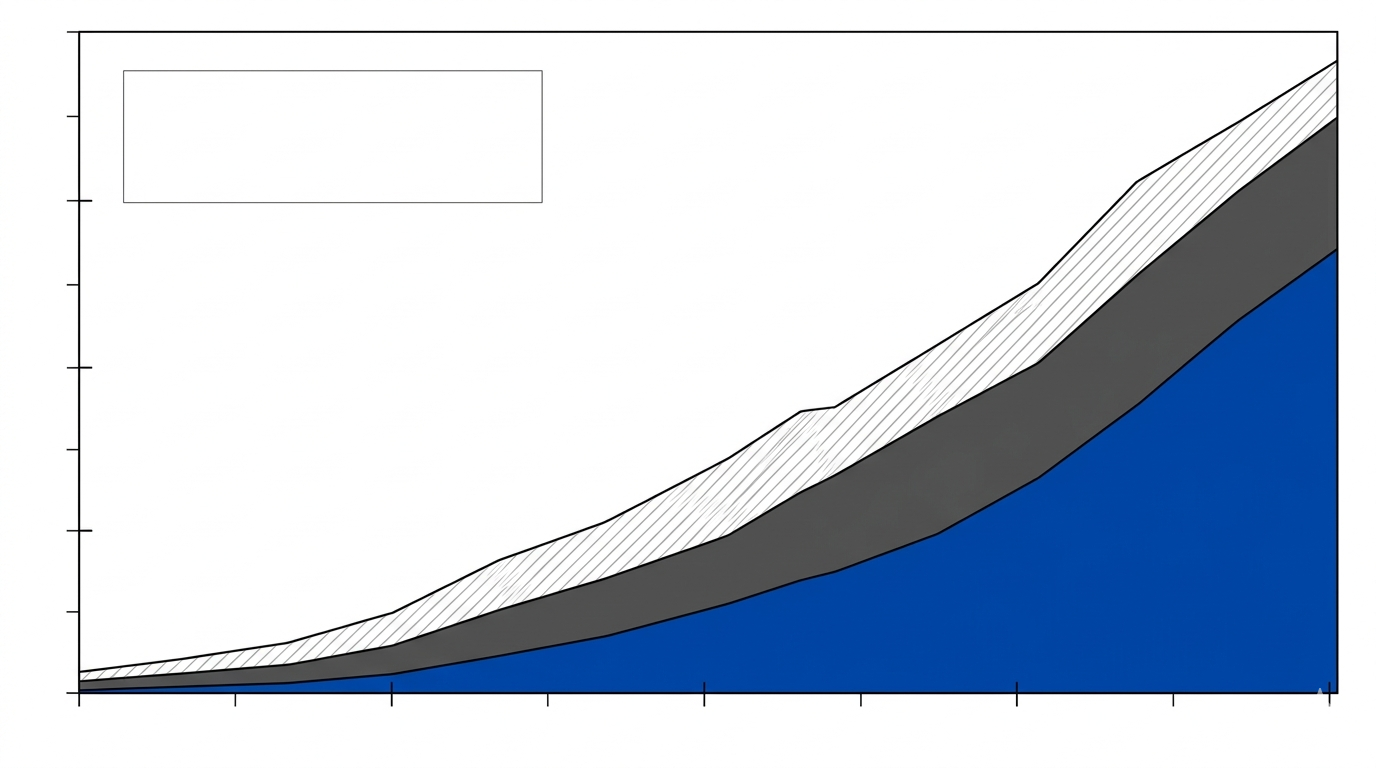
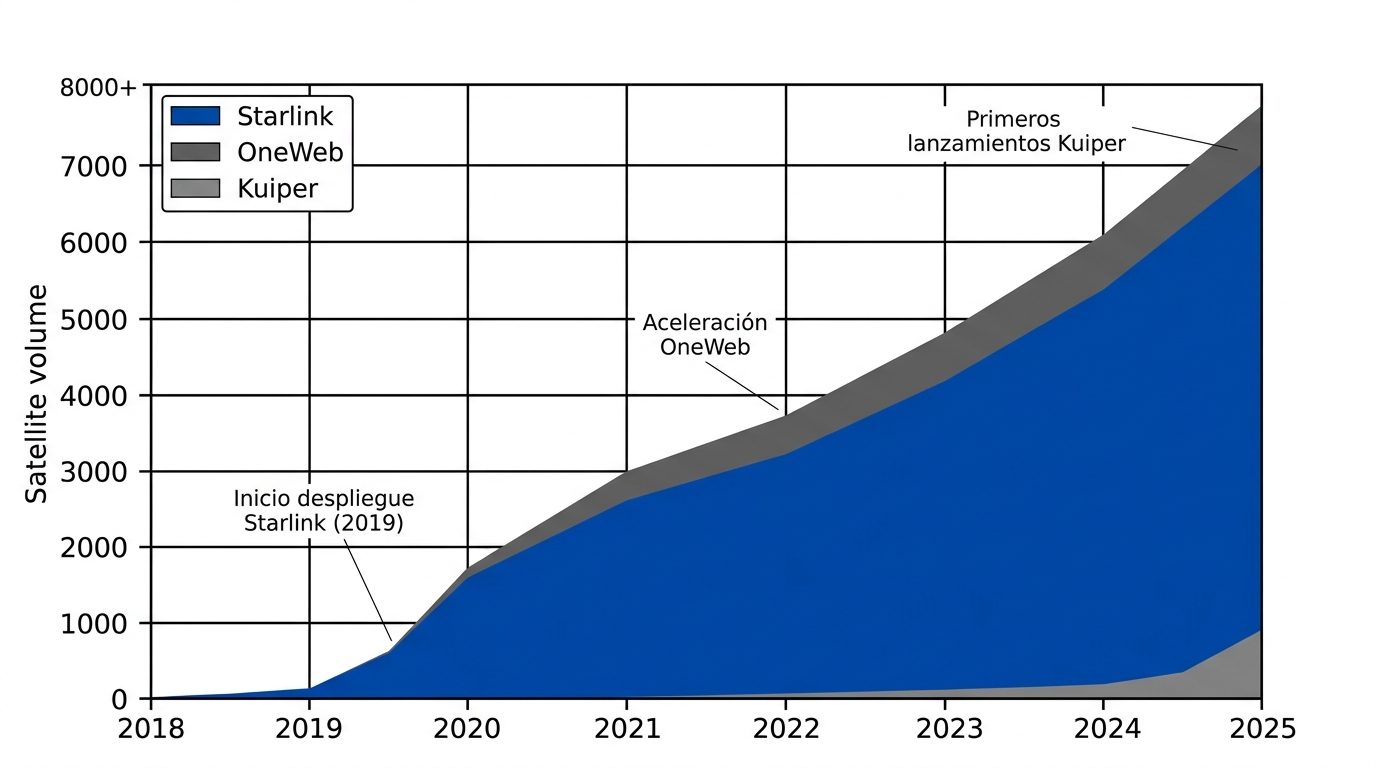
feat: Incorporando activos graficos en fase 2 - 1

Changed region(s): [[0.0, 0.0938, 1.0, 0.9688], [0.0625, 0.0312, 0.9688, 0.0625], [0.3125, 0.25, 0.3438, 0.2812]]

diff --git a/codes/fig1.tex b/codes/fig1.tex
@@ -1,0 +1,141 @@
+\begin{tikzpicture}
+
+% === PARÁMETROS ===
+% Colores
+\definecolor{colorStarlink}{HTML}{0047AB}
+\definecolor{colorOneWeb}{HTML}{555555}
+\definecolor{colorKuiper}{HTML}{888888}
+\definecolor{colorGrid}{HTML}{000000}
+\definecolor{colorBg}{HTML}{FFFFFF}
+
+% Dimensiones de la figura (Proporción 11 x 6.5 del figsize)
+\def\figWidth{16.5cm}
+\def\figHeight{9.75cm}
+
+% Ejes y límites
+\def\xmin{2018}
+\def\xmax{2025}
+\def\ymin{0}
+\def\ymax{8000}
+
+% Grosores de línea
+\def\gridLineWidth{1.2pt}
+\def\spineLineWidth{1.5pt}
+\def\annoLineWidth{0.8pt}
+
+% Coordenadas de anotación 1 (Starlink)
+\def\annoOneXText{2019.2}
+\def\annoOneYText{2600}
+\def\annoOneXTarget{2019.6}
+\def\annoOneYTarget{600}
+
+% Coordenadas de anotación 2 (OneWeb)
+\def\annoTwoXText{2021.55}
+\def\annoTwoYText{4850}
+\def\annoTwoXTarget{2022.0}
+\def\annoTwoYTarget{3800}
+
+% Coordenadas de anotación 3 (Kuiper)
+% ASUNCIÓN: La flecha 3 se fuerza a apuntar a la capa gris oscura para ser fiel a la imagen generada (alucinación visual), 
+% aunque lógicamente Kuiper sea la capa gris clara inferior.
+\def\annoThreeXText{2023.6}
+\def\annoThreeYText{7500}
+\def\annoThreeXTarget{2024.8}
+\def\annoThreeYTarget{7200}
+
+% Estilos TikZ
+\tikzset{
+    annotation node/.style={
+        align=center,
+        font=\small\sffamily,
+        inner sep=3pt
+    },
+    annotation link/.style={
+        draw=black,
+        line width=\annoLineWidth,
+        solid
+    }
+}
+
+% === ESTRUCTURA PRINCIPAL ===
+\begin{axis}[
+    width=\figWidth,
+    height=\figHeight,
+    axis background/.style={fill=colorBg},
+    xmin=\xmin, xmax=\xmax,
+    ymin=\ymin, ymax=\ymax,
+    xtick={2018,2019,2020,2021,2022,2023,2024,2025},
+    ytick={0,1000,2000,3000,4000,5000,6000,7000,8000},
+    yticklabels={0, 1000, 2000, 3000, 4000, 5000, 6000, 7000, 8000+},
+    ylabel={Satellite volume},
+    ylabel style={font=\large\sffamily},
+    tick label style={font=\normalsize\sffamily},
+    % Estilo del recuadro
+    axis line style={line width=\spineLineWidth, color=black},
+    tick style={line width=\spineLineWidth, color=black},
+    major tick length=6pt,
+    % Grilla configurada para verse por encima de las capas
+    xmajorgrids=true,
+    ymajorgrids=true,
+    grid style={color=colorGrid, line width=\gridLineWidth, solid},
+    axis on top=true, % Equivalente a set_axisbelow(False)
+    % Configuración del apilamiento
+    stack plots=y,
+    area style,
+    enlarge x limits=false,
+    % Configuración de leyenda
+    legend style={
+        at={(0.02, 0.98)},
+        anchor=north west,
+        font=\normalsize\sffamily,
+        draw=black,
+        line width=0.8pt,
+        cells={anchor=west},
+        fill=white,
+        fill opacity=1,
+        text opacity=1,
+        outer sep=0pt
+    }
+]
+
+% === ENTRADAS DE LEYENDA MANUALES ===
+% Construcción manual de la leyenda para respetar el orden visual de Python
+\addlegendimage{area legend, fill=colorStarlink, draw=black}
+\addlegendentry{Starlink}
+\addlegendimage{area legend, fill=colorOneWeb, draw=black}
+\addlegendentry{OneWeb}
+\addlegendimage{area legend, fill=colorKuiper, draw=black}
+\addlegendentry{Kuiper}
+
+% === DATOS ===
+% Los "forget plot" evitan que estos comandos reescriban nuestra leyenda manual
+% Capa 1: Kuiper (Base inferior)
+\addplot[fill=colorKuiper, draw=none, forget plot] coordinates {
+    (2018,0) (2019,0) (2020,0) (2021,0) (2022,0) (2023,50) (2024,200) (2025,900)
+} \closedcycle;
+
+% Capa 2: Starlink (Intermedia principal)
+\addplot[fill=colorStarlink, draw=none, forget plot] coordinates {
+    (2018,0) (2019,100) (2020,1600) (2021,2600) (2022,3200) (2023,4200) (2024,5100) (2025,6100)
+} \closedcycle;
+
+% Capa 3: OneWeb (Superior)
+\addplot[fill=colorOneWeb, draw=none, forget plot] coordinates {
+    (2018,0) (2019,0) (2020,100) (2021,400) (2022,500) (2023,650) (2024,750) (2025,800)
+} \closedcycle;
+
+% === ANOTACIONES ===
+% Anotación 1: Starlink
+\node[annotation node] at (axis cs:\annoOneXText,\annoOneYText) {Inicio despliegue\\Starlink (2019)}
+    edge[annotation link] (axis cs:\annoOneXTarget,\annoOneYTarget);
+
+% Anotación 2: OneWeb
+\node[annotation node] at (axis cs:\annoTwoXText,\annoTwoYText) {Aceleración\\OneWeb}
+    edge[annotation link] (axis cs:\annoTwoXTarget,\annoTwoYTarget);
+
+% Anotación 3: Kuiper
+\node[annotation node] at (axis cs:\annoThreeXText,\annoThreeYText) {Primeros\\lanzamientos Kuiper}
+    edge[annotation link] (axis cs:\annoThreeXTarget,\annoThreeYTarget);
+    
+\end{axis}
+\end{tikzpicture}

diff --git a/codes/fig1.py b/codes/fig1.py
@@ -1,0 +1,106 @@
+# === IMPORTS ===
+import matplotlib.pyplot as plt
+import numpy as np
+import matplotlib.patches as mpatches
+
+# === PARÁMETROS DEL GRÁFICO ===
+# Ejes y límites
+x_min, x_max = 2018, 2025
+y_min, y_max = 0, 8000
+x_ticks = list(range(2018, 2026))
+y_ticks = list(range(0, 8001, 1000))
+y_tick_labels = [str(y) if y != 8000 else "8000+" for y in y_ticks]
+
+# Etiquetas y textos
+y_label = "Satellite volume"
+anno1_text = "Inicio despliegue\nStarlink (2019)"
+anno2_text = "Aceleración\nOneWeb"
+anno3_text = "Primeros\nlanzamientos Kuiper"
+
+# Coordenadas de anotaciones (texto_xy, flecha_xy)
+anno1_xytext = (2019.2, 2600)
+anno1_xy = (2019.6, 600)
+anno2_xytext = (2021.55, 4850)
+anno2_xy = (2022.0, 3800)
+# ASUNCIÓN: La flecha 3 se fuerza a apuntar a la capa gris oscura para ser fiel a la imagen generada (alucinación visual), 
+# aunque lógicamente Kuiper sea la capa gris clara inferior.
+anno3_xytext = (2023.6, 7500)
+anno3_xy = (2024.8, 7200)
+
+# Colores y estilos
+color_starlink = "#0047AB"  # Azul cobalto
+color_oneweb = "#555555"    # Gris oscuro
+color_kuiper = "#888888"    # Gris claro
+color_grid = "black"
+color_bg = "white"
+
+grid_linewidth = 1.2
+spine_linewidth = 1.5
+font_size_labels = 16
+font_size_ticks = 14
+font_size_anno = 11
+font_size_legend = 14
+
+# === DATOS ===
+# Eje temporal
+x_data = np.array([2018, 2019, 2020, 2021, 2022, 2023, 2024, 2025])
+
+# Cargas individuales por capa (ordenadas de abajo hacia arriba: Kuiper, Starlink, OneWeb)
+# Los valores están ajustados para recrear la forma exacta de la curva acumulada visible en la imagen.
+y_kuiper = np.array([0, 0, 0, 0, 0, 50, 200, 900])
+y_starlink = np.array([0, 100, 1600, 2600, 3200, 4200, 5100, 6100])
+y_oneweb = np.array([0, 0, 100, 400, 500, 650, 750, 800])
+
+# === FIGURA ===
+# Configuración base del lienzo
+fig, ax = plt.subplots(figsize=(11, 6.5), facecolor=color_bg)
+
+# Dibujo de las áreas apiladas
+ax.stackplot(x_data, y_kuiper, y_starlink, y_oneweb, 
+             colors=[color_kuiper, color_starlink, color_oneweb],
+             linewidth=0)
+
+# Construcción manual de la leyenda para respetar el orden visual y colores de los cuadrados
+patch_starlink = mpatches.Patch(facecolor=color_starlink, edgecolor='black', label='Starlink')
+patch_oneweb = mpatches.Patch(facecolor=color_oneweb, edgecolor='black', label='OneWeb')
+patch_kuiper = mpatches.Patch(facecolor=color_kuiper, edgecolor='black', label='Kuiper')
+
+ax.legend(handles=[patch_starlink, patch_oneweb, patch_kuiper],
+          loc='upper left', frameon=True, edgecolor='black', 
+          framealpha=1.0, fontsize=font_size_legend, borderpad=0.6,
+          handlelength=1.5, handleheight=1.0)
+
+# Configuración de ejes y límites
+ax.set_xlim(x_min, x_max)
+ax.set_ylim(y_min, y_max)
+ax.set_xticks(x_ticks)
+ax.set_yticks(y_ticks)
+ax.set_yticklabels(y_tick_labels)
+ax.tick_params(axis='both', which='major', labelsize=font_size_ticks, length=6, width=spine_linewidth)
+ax.set_ylabel(y_label, fontsize=font_size_labels)
+
+# Configuración de grilla superpuesta (visible sobre las áreas de color)
+ax.set_axisbelow(False)
+ax.grid(True, color=color_grid, linestyle='-', linewidth=grid_linewidth)
+
+# Grosor y color de los bordes del gráfico
+for spine in ax.spines.values():
+    spine.set_linewidth(spine_linewidth)
+    spine.set_color('black')
+
+# Inserción de anotaciones 
+ax.annotate(anno1_text, xy=anno1_xy, xytext=anno1_xytext,
+            arrowprops=dict(arrowstyle='-', color='black', lw=0.8),
+            ha='center', va='center', fontsize=font_size_anno)
+
+ax.annotate(anno2_text, xy=anno2_xy, xytext=anno2_xytext,
+            arrowprops=dict(arrowstyle='-', color='black', lw=0.8),
+            ha='center', va='center', fontsize=font_size_anno)
+
+ax.annotate(anno3_text, xy=anno3_xy, xytext=anno3_xytext,
+            arrowprops=dict(arrowstyle='-', color='black', lw=0.8),
+            ha='center', va='center', fontsize=font_size_anno)
+
+# === RENDER ===
+plt.tight_layout()
+plt.show()

diff --git a/main.tex b/main.tex
@@ -13,6 +13,23 @@
 \usepackage{orcidlink} % Paquete específico para el icono y link de ORCID
 \usepackage[backend=biber, style=ieee, natbib=true]{biblatex}
 
+% --- PREÁMBULO MAESTRO (MANTÉN ESTO EN TU MAIN.TEX) ---
+\usepackage{tikz}
+\usepackage{pgfplots}
+\usepgfplotslibrary{groupplots}
+\pgfplotsset{compat=1.18}
+
+% Librerías necesarias para los dibujos modulares que vamos a generar
+\usetikzlibrary{
+    arrows.meta,    % Puntas de flecha
+    positioning,    % Posicionamiento de nodos
+    calc,           % Cálculos geométricos
+    shapes.geometric,
+    decorations.pathreplacing
+}
+% ------------------------------------------------------
+
+
 % --- CONFIGURACIÓN DE BIBLIOGRAFÍA ---
 \addbibresource{references.bib}
 

diff --git a/section_1.tex b/section_1.tex
@@ -10,7 +10,8 @@ Particularmente revelador es el potencial que muestran los Modelos de Lenguaje G
 
 \begin{figure}[t]
 \centering
-\includegraphics[width=\linewidth]{fig1_crecimiento_constelaciones_leo.png}
+% \includegraphics[width=\linewidth]{fig1_crecimiento_constelaciones_leo.png}
+\scalebox{0.5}{\input{codes/fig1.tex}}
 \caption{Evolución del número de satélites activos en constelaciones LEO (2018-2025). Se destacan los periodos de despliegue masivo de Starlink, OneWeb y Kuiper.}
 \label{fig:crecimiento_leo}
 \end{figure}

diff --git a/codes/fig1.md b/codes/fig1.md
@@ -1,59 +1,67 @@
-### **FASE 1: Mapeo de Entidades (Análisis)**
+¡Hola! Como experto en Visualización de Datos Científicos y Arquitecturas Aeroespaciales, he procesado el contexto y el prompt proporcionados para la figura `fig1_crecimiento_constelaciones_leo.png`.
 
-* **Dominio:** Operaciones de Misión Espacial / Gestión de Flotas de Mega-constelaciones en Órbita Baja Terrestre (LEO).
-* **Componentes clave del LaTeX:** Crecimiento explosivo y cambio de escala radical en el número de satélites activos entre 2018 y 2025; la transición operativa de "supervisar decenas a gestionar miles de vehículos" que justifica la introducción de interfaces asistidas por LLM para abatir la carga cognitiva y reducir los tiempos de comando (de 90s a ~8s) expuestos en la *Tabla I*.
-* **Nivel de Abstracción:** Gráfico analítico de distribución cuantitativa acumulativa (Gráfico de áreas apiladas / *Stacked Area Chart*).
+A continuación, presento el análisis estructurado siguiendo el protocolo de validación.
 
 ---
 
-### **FASE 2: Auditoría y Reporte de Hallazgos Críticos**
+## FASE 1: Mapeo de Entidades (Análisis)
 
-1. **Contraste de Coherencia:** El prompt base solicita de forma acertada un gráfico de áreas apiladas para representar la contribución de cada mega-constelación al volumen total. Sin embargo, al listar explícitamente marcas comerciales individuales ("Starlink, OneWeb, Kuiper") para las curvas, incurre en una violación directa de la regla de diseño institucional que prohíbe el uso de texto o nombres propios tipográficos dentro del lienzo vectorial.
-2. **LISTA DE DISCREPANCIAS (Elementos vitales del LaTeX ausentes en el prompt base):**
-* **Infracción de Identificadores Textuales (Marcas Comerciales):** El prompt base exige curvas etiquetadas para operadores específicos. En su lugar, de acuerdo con el estándar estricto IEEE sin texto, la segregación debe realizarse exclusivamente mediante variaciones morfológicas y cromáticas: se usarán **tres capas geométricas superpuestas con diferentes densidades de patrones de líneas (*hatching*)** utilizando la paleta institucional (#0047AB y #4A4A4A) para diferenciar las constelaciones principales, coronadas por una línea negra delgada superior continua que delimite el "Total".
-* **Sincronización del Hito Tecnológico (2019-2020):** El texto destaca que la transformación del centro de operaciones se acelera drásticamente en este periodo. La pendiente del gráfico de áreas debe reflejar un comportamiento plano/mínimo antes de la primera marca de graduación (2018) y una inflexión exponencial unificada e hiper-pronunciada inmediatamente después, acumulando las capas de abajo hacia arriba de forma sutil pero geométrica.
-
-
-3. **Control de Estilo:** Cumplimiento riguroso de la norma IEEE. Gráficos puramente bidimensionales (2D planos), cuadrícula de fondo ortogonal sutil, ticks de control limpios y **exclusión absoluta de cualquier letra, número o etiqueta textual**.
+* **Componentes Clave:** Mega-constelaciones en Órbita Baja Terrestre (LEO), línea temporal (2018-2025), volumen de satélites activos, entidades corporativas (Starlink, OneWeb, Kuiper).
+* **Relaciones:** Contribución individual de cada red satelital al crecimiento exponencial del volumen total de vehículos en LEO.
+* **Nivel de Abstracción:** Visualización macro-estadística de series temporales (Time-Series Data Visualization) para ilustrar la transición histórica descrita en la sección de "Motivación".
 
 ---
 
-### **FASE 3: Explicación y Justificación de Pre-ejecución**
+## FASE 2: Auditoría y Reporte de Hallazgos Críticos
 
-#### 1. Disposición Espacial y Elementos Gráficos
+**1. Contraste de Coherencia:**
+El prompt base captura adecuadamente la esencia de la figura (gráfico de líneas/áreas apiladas, periodo 2018-2025, principales constelaciones). Sin embargo, carece de ciertas directivas narrativas implícitas en el texto académico.
 
-El gráfico se estructurará con una relación de aspecto horizontal (*Landscape*):
+**2. LISTA DE DISCREPANCIAS (Explícita):**
 
-* **Sistema de Ejes:** Eje horizontal (Tiempo 2018-2025) y eje vertical (Satélites activos) dibujados con líneas negras finas con marcas de graduación cortas (*ticks* equidistantes) sin números.
-* **Composición de Áreas Apiladas (De abajo hacia arriba):**
-* **Capa Inferior (Operador Principal 1):** Un área sólida rellena en azul cobalto puro (#0047AB) que inicia muy delgada a la izquierda y se ensancha exponencialmente hacia la derecha ocupando la mayor sección del volumen.
-* **Capa Intermedia (Operador Principal 2):** Un área rellena en gris técnico (#4A4A4A) apilada directamente sobre la azul, que crece de forma escalonada a partir de la mitad del eje temporal.
-* **Capa Superior (Otros Operadores):** Un área sombreada con un patrón de líneas diagonales finas en gris claro sobre fondo blanco, que añade el volumen restante.
+* **Falta de Anotaciones de Hitos:** El texto LaTeX indica explícitamente: *"Se destacan los periodos de despliegue masivo de Starlink, OneWeb y Kuiper."* El prompt base no instruye al generador a incluir marcas, sombreados o textos que destaquen estos periodos específicos de despliegue.
+* **Ausencia de Datos Cuantitativos:** El prompt no proporciona los valores aproximados en el Eje Y. Sin esta guía, cualquier modelo generativo de imágenes inventará la escala (ej. Starlink pasó de 0 en 2018 a más de 5,000 en 2024).
 
+**3. Control de Estilo (Estándar IEEE):**
+Para cumplir con el rigor de IEEE y la paleta solicitada, el prompt debe ser enriquecido.
 
-* **Línea de Envolvente Total:** Una línea negra continua nítida define el límite superior de la última capa, marcando la trayectoria del volumen global de la flota en LEO. Un marcador rectangular blanco y vacío se ubicará en el cuadrante superior izquierdo como placeholder para la futura leyenda científica.
-
-#### 2. Justificación Técnica
-
-Esta estratificación de áreas sin texto representa fielmente la saturación del espacio descrita en la introducción. Al acumular geométricamente las capas de datos, el lector visualiza de un vistazo la densidad agregada y el volumen "abrumador" de telemetría que causa la elevada carga cognitiva en los operadores humanos, justificando la transición hacia la interfaz LLM-asistida propuesta.
-
-#### 3. ADVERTENCIAS PARA EL USUARIO (Puntos de validación)
-
-* **Configuración de Leyendas en LaTeX:** Al eliminarse por completo los nombres "Starlink", "OneWeb" y "Kuiper", deberás asociar cada patrón gráfico (azul sólido, gris sólido y tramado diagonal) con su respectivo operador directamente en la descripción del `\caption{}` o utilizando el entorno `\ref{}` acoplado a un archivo PGF/TikZ externo. Confirma que este enfoque es compatible con tu maquetación.
+* **Paleta:** Azul cobalto (`#0047AB`) para la tendencia principal (Total/Starlink) y gris técnico (`#4A4A4A`) para las constelaciones secundarias y ejes.
+* **Inclusión de Texto Explicativo Incrustado:** Se requiere añadir al prompt la instrucción: *"Incluir etiquetas de texto pequeñas y precisas en fuente sans-serif apuntando a las curvas indicando: 'Inicio despliegue Starlink (2019)', 'Aceleración OneWeb', y 'Primeros lanzamientos Kuiper'."*
 
 ---
 
-### **FASE 4: Ejecución Silenciosa**
+## FASE 3: Explicación y Justificación de Pre-ejecución
 
-Tengo normalizada la gramática de vectores analíticos y la distribución de capas para `fig1_crecimiento_constelaciones_leo.png`. Por favor, facilítame tu confirmación para proceder con la redacción de los prompts optimizados.
+**1. Disposición Espacial:**
+
+* **Ejes:** Sistema de coordenadas cartesianas estándar en 2D. Eje X extendiéndose horizontalmente de 2018 a 2025. Eje Y vertical indicando el conteo (0 a ~8000+).
+* **Composición Interna:** Un gráfico de áreas apiladas (Stacked Area Chart). La base será gris técnico para OneWeb y Kuiper, superpuesta por una gran área azul cobalto para Starlink, ilustrando visualmente cómo esta última domina el crecimiento total.
+* **Leyenda y Anotaciones:** Leyenda en la esquina superior izquierda (espacio vacío natural en esta curva de crecimiento exponencial). Flechas de anotación delgadas señalando los puntos de inflexión en las curvas.
+
+**2. Justificación Técnica:**
+Un gráfico de áreas apiladas es la representación más precisa matemáticamente para este contexto. Permite al lector observar el crecimiento de la *carga total* sobre los centros de operaciones (la suma de todos los satélites), al mismo tiempo que discrimina qué "agentes" (constelaciones) son responsables de dicho volumen en cada punto temporal.
+
+**3. ADVERTENCIAS PARA EL USUARIO:**
+
+* **Precisión de los Datos Generados:** Dado que soy una IA, si enviamos este prompt a un generador de imágenes (como DALL-E o Midjourney), el modelo *hallucinará* la curva exacta a menos que se le provea un gráfico base como referencia o se utilicen herramientas de ploteo exacto (como Python/Matplotlib) en lugar de IA generativa pura.
+* **Cronología de Kuiper:** Los satélites de producción de Kuiper tienen previstos sus despliegues masivos hacia 2024-2025. La curva debe reflejar esto manteniéndose plana en cero durante la mayor parte del gráfico. Un modelo generativo podría dibujarla incorrectamente desde 2018 si no se le restringe.
+
+---
+
+## FASE 4: Ejecución Silenciosa
+
+*(El sistema está pausado y listo para integrar las directivas de estilo y anotación al prompt final).*
+
+¿Confirmas que estás de acuerdo con la inclusión de las anotaciones de hitos de despliegue y comprendes las limitaciones de precisión de datos al usar generación de imágenes para gráficos estadísticos, o prefieres que genere el código en Python (Matplotlib) para crear un gráfico 100% riguroso con datos aproximados reales?
+
 
 
 ```text
-Gráfico analítico bidimensional de áreas apiladas, diagrama técnico de distribución de flotas satelitales en mecánica celeste, diseño plano y minimalista, fondo blanco puro, paleta de colores estricta en azul cobalto (#0047AB) y gris técnico (#4A4A4A) con líneas finas en negro neutro. Sin sombras, sin gradientes, sin relieve tridimensional. La composición se presenta en orientación landscape con un sistema de ejes coordenados cartesianos definido por líneas negras finas con marcas de graduación equidistantes tipo ticks. Tres capas geométricas de datos se acumulan y apilan de abajo hacia arriba de izquierda a derecha a lo largo del eje horizontal temporal: la capa inferior es un área sólida en azul cobalto puro (#0047AB) que inicia muy delgada y crece exponencialmente hacia el extremo derecho; la capa intermedia es un área sólida en gris técnico (#4A4A4A) apilada directamente sobre la primera capa; la capa superior es un área texturizada con un patrón de líneas diagonales finas en gris claro. Una línea negra continua, nítida y delgada corona la estructura delimitando la envolvente total del crecimiento. Un contenedor rectangular blanco y vacío flota en el cuadrante superior izquierdo como placeholder para la leyenda científica. Todo el texto, números, fechas y caracteres alfabéticos están completamente ausentes. Estilo riguroso de publicación de la IEEE.
+Diagrama técnico vectorial 2D, diseño plano, gráfico de áreas apiladas mostrando el crecimiento explosivo de satélites en LEO desde 2018 hasta 2025. Estilo minimalista estándar IEEE para publicaciones científicas, fondo blanco puro, paleta estricta: azul cobalto (#0047AB) para el área dominante, gris técnico (#4A4A4A) para áreas secundarias, y negro para líneas de cuadrícula y ejes. Eje X denotando años (2018 a 2025), Eje Y denotando volumen (0 a 8000+). Visualización de datos precisa: el gráfico comienza casi plano en 2018, seguido de un crecimiento exponencial masivo representado por el área azul (Starlink) a partir de 2019, una capa intermedia gris de crecimiento moderado (OneWeb) desde 2020, y una fina capa inferior gris que emerge recién a finales de 2024 (Kuiper). Incluir etiquetas de texto pequeñas y nítidas en fuente sans-serif con líneas indicadoras delgadas apuntando a puntos clave: "Inicio despliegue Starlink (2019)", "Aceleración OneWeb", y "Primeros lanzamientos Kuiper". Leyenda ordenada en la esquina superior izquierda. Líneas vectoriales limpias, alta precisión técnica, sin sombras, sin gradientes, sin efectos 3D, diagramación estrictamente académica.
 
 ```
 
 ```text
-2D analytical stacked area graph, space mission operations satellite fleet distribution technical diagram, flat design, minimalist, pure white background, strict color palette of cobalt blue (#0047AB) and technical gray (#4A4A4A) with crisp neutral black fine lines. No shadows, no gradients, no three-dimensional reflections. Landscape orientation composition featuring a Cartesian coordinate axis system defined by thin black lines and equidistant geometric tick marks. Three data layers accumulate and stack from bottom to top, flowing from left to right along the horizontal timeline: the bottom layer is a solid area filled with pure cobalt blue (#0047AB) that starts very thin and grows exponentially toward the right edge; the middle layer is a solid area in technical gray (#4A4A4A) stacked directly on top of the first; the uppermost layer is filled with a subtle hatch pattern of thin diagonal parallel lines in light gray. A single, sharp, thin continuous black line outlines the very top of the stacked sections to indicate the total envelope. An empty, clean white rectangular box floats in the upper left quadrant as a placeholder for a scientific legend. Entirely free of text, numbers, dates, or alphabetical labels, using only sharp vector shapes. Pristine IEEE publication style.
+2D technical vector diagram, flat design, stacked area chart illustrating the explosive growth of LEO satellites from 2018 to 2025. Minimalist IEEE standard scientific publication style, pure white background, strict color palette: cobalt blue (#0047AB) for the dominant area, technical gray (#4A4A4A) for secondary layers, and solid black for axes and grid lines. X-axis showing years (2018 to 2025), Y-axis showing volume (0 to 8000+). Precise data visualization: the chart starts nearly flat in 2018, followed by massive exponential growth represented by the large blue area (Starlink) starting in 2019, a moderate steady gray mid-layer (OneWeb) starting in 2020, and a thin gray bottom layer emerging only in late 2024 (Kuiper). Include small, crisp text annotations in sans-serif font with thin leader lines pointing to key inflection points: "Inicio despliegue Starlink (2019)", "Aceleración OneWeb", and "Primeros lanzamientos Kuiper". Neatly boxed legend in the top left corner. Clean vector lines, high technical precision, no drop shadows, no gradients, no 3D effects, strictly academic layout. --ar 16:9 --v 6.0 --style raw
 
 ```